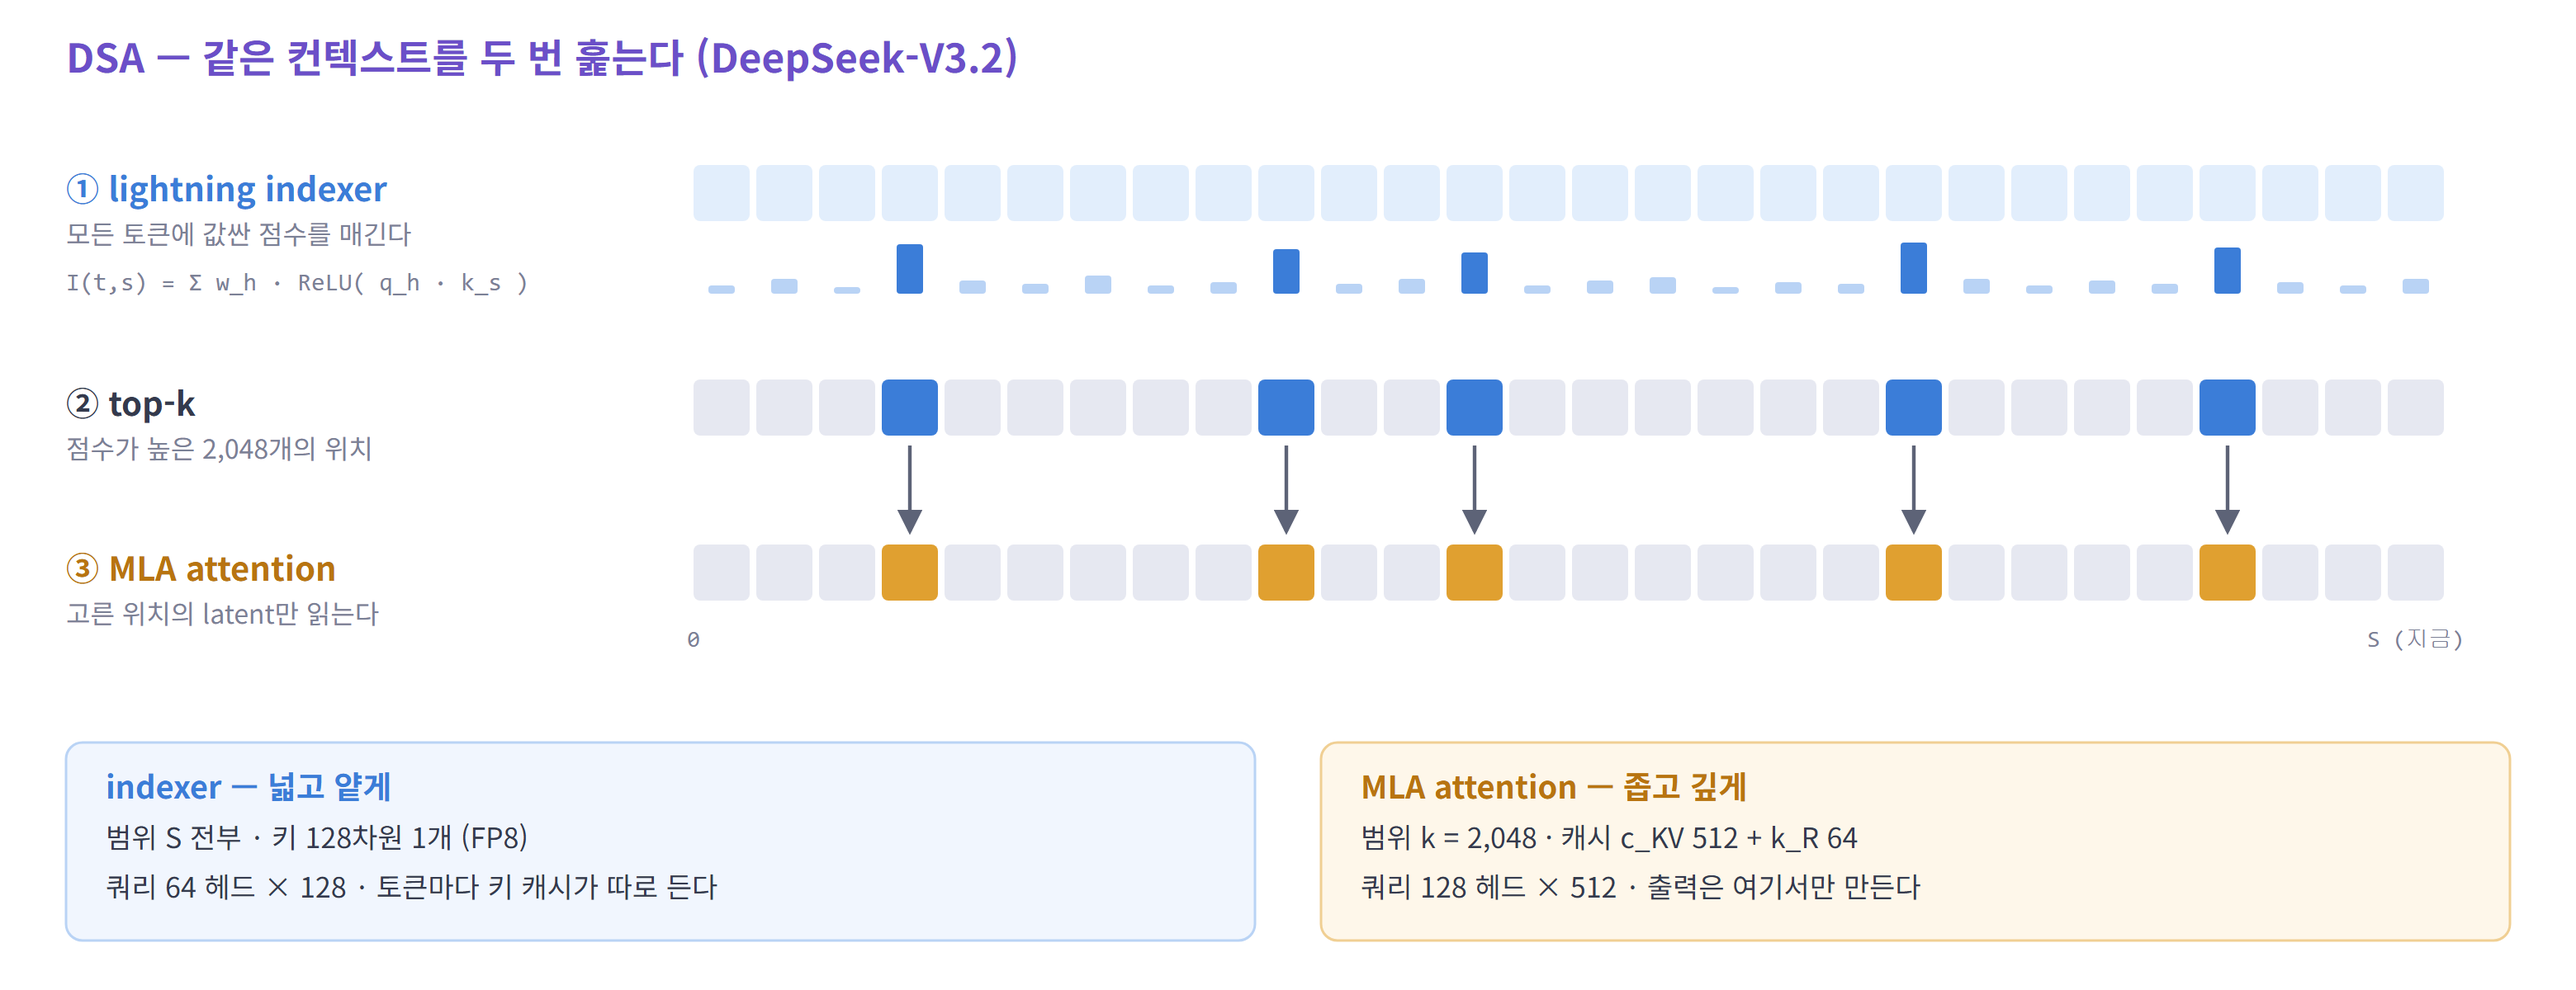
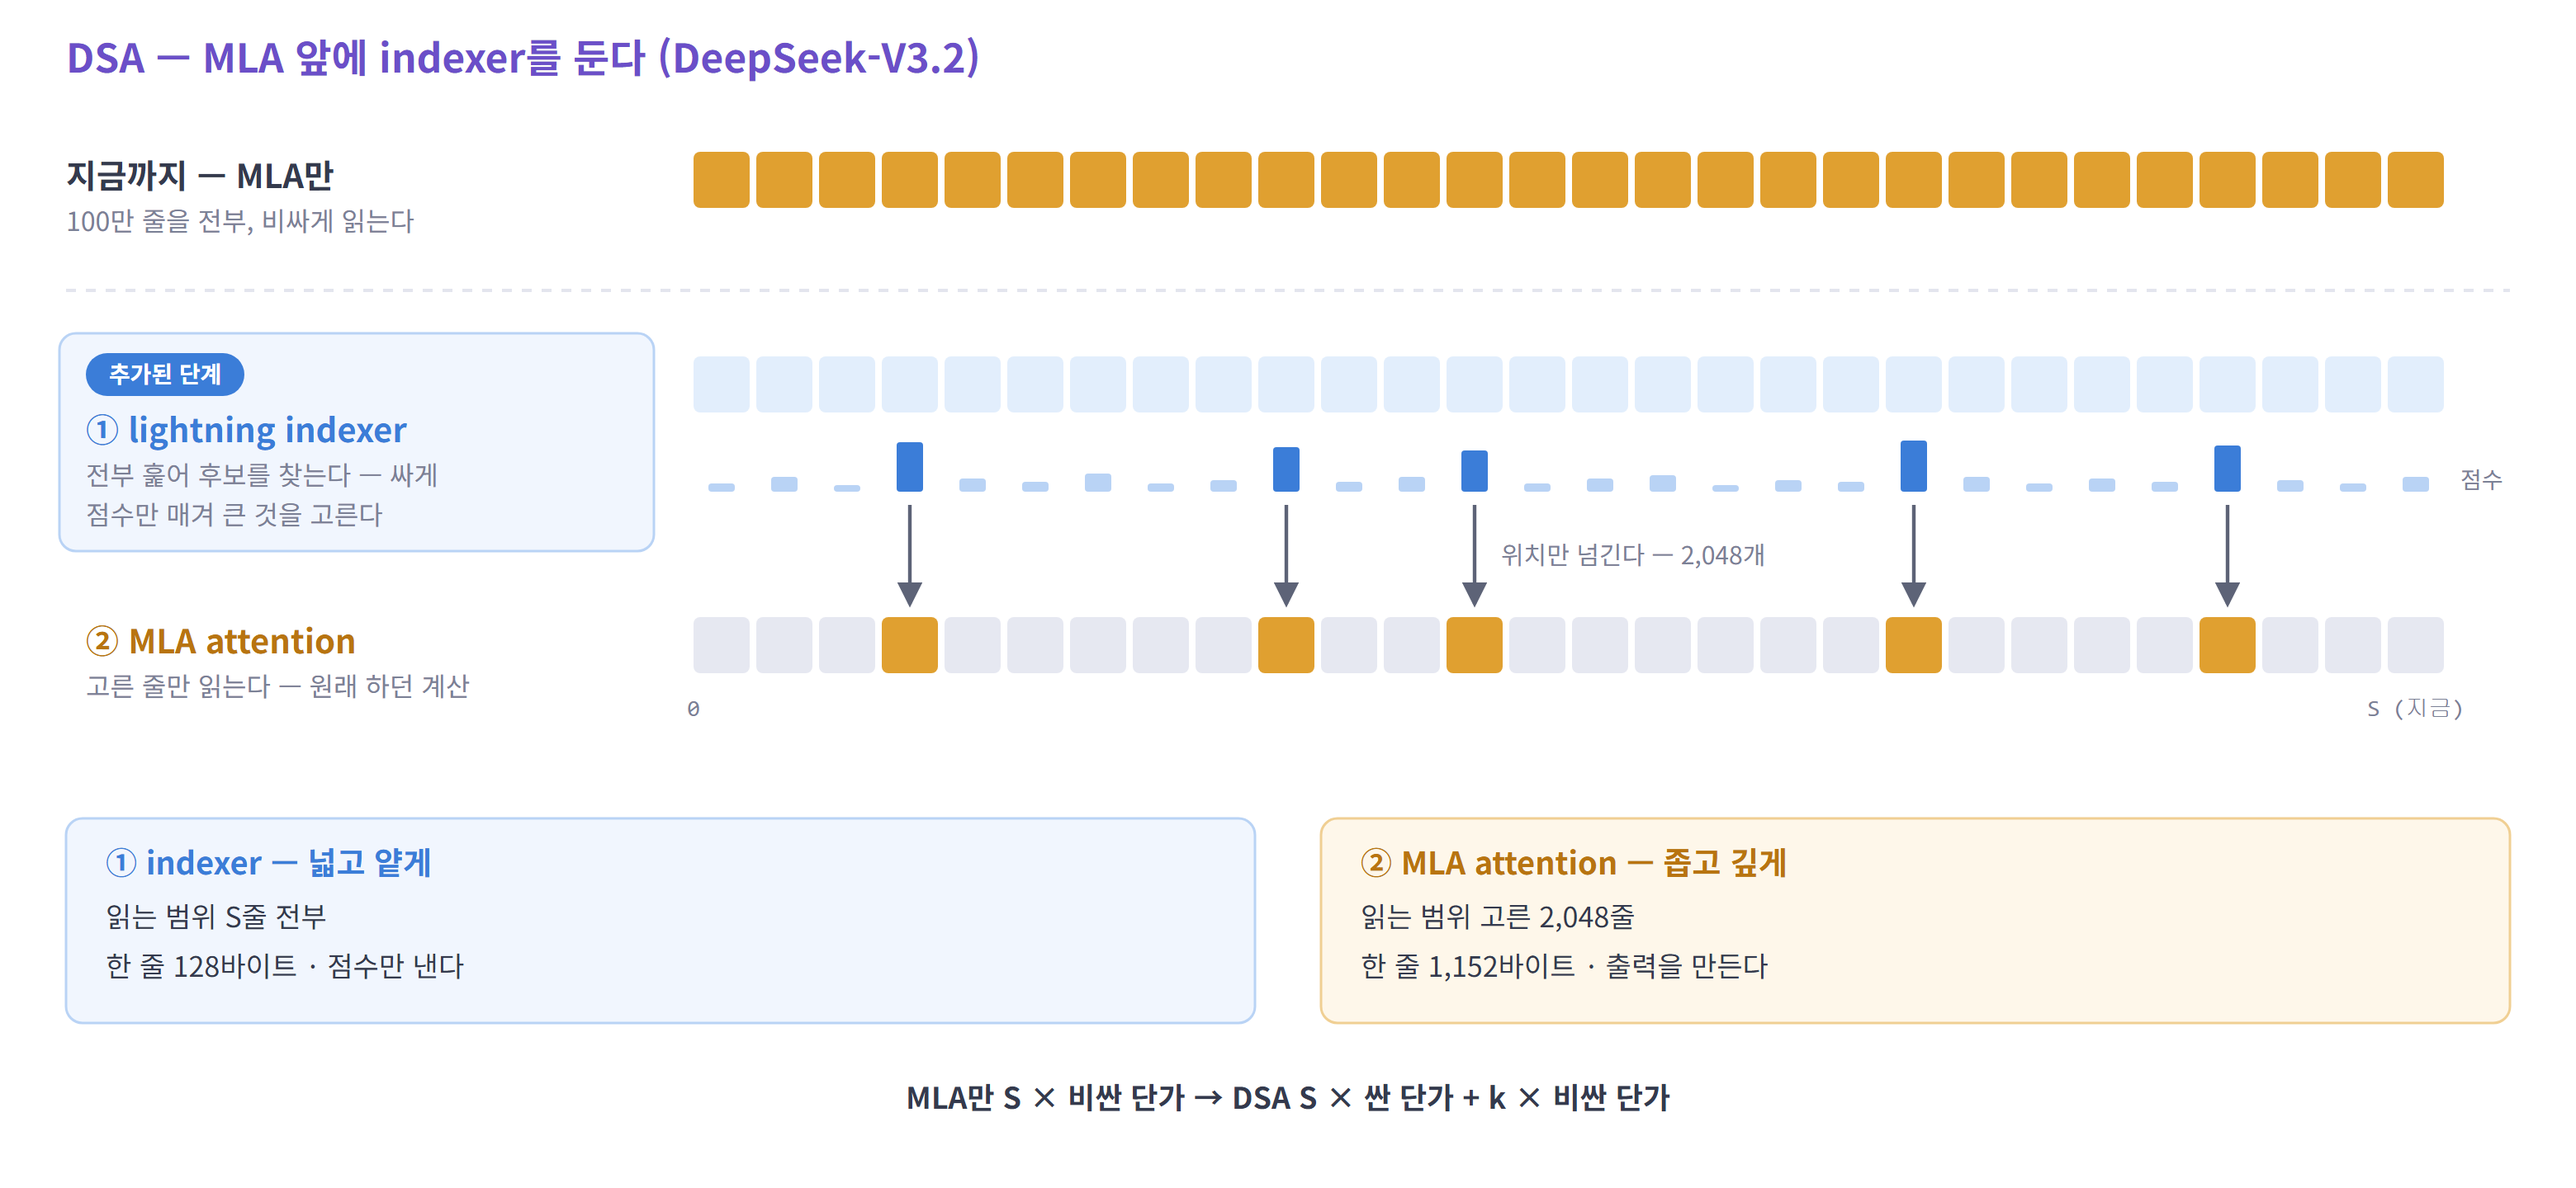
docs: rework the DSA section of the attention seminar
Present DSA as MLA with an indexer stage added in front: the indexer
scans every row cheaply and passes on 2,048 positions, and MLA then
computes only on those rows. Redraw the DSA figure around that flow and
fold the second diagram into the indexer screen.

Add a screen listing the indexer's operations with shapes and a small
score example, state that its goal is recall rather than exact ranking,
and keep the GPU view of top-k and gather short. Move the byte counts
into a fold and remove repeated points.

diff --git a/seminar/figures/make_figures.py b/seminar/figures/make_figures.py
@@ -301,45 +301,59 @@ def fig_patterns():
 
 # ---------------------------------------------------------------- 6. DSA
 def fig_dsa():
-    f = Fig("06-dsa", 1560, 600)
-    f.title(40, 44, "DSA — 같은 컨텍스트를 두 번 훑는다 (DeepSeek-V3.2)")
-    n = 28
-    sel = {3, 9, 12, 19, 24}
-    x0, cw = 420, 34
-    # ① indexer
-    y = 100
-    f.text(40, y + 22, "① lightning indexer", 20, "start", 700, "#3b7dd8")
-    f.text(40, y + 48, "모든 토큰에 값싼 점수를 매긴다", 16, "start", color=MUTED)
-    f.cells(x0, y, [KINDS["i"][0]] * n, cw, 34, 4, 4)
+    f = Fig("06-dsa", 1560, 720)
+    f.title(40, 44, "DSA — MLA 앞에 indexer를 둔다 (DeepSeek-V3.2)")
+    BLUE, AMB = "#3b7dd8", "#b87410"
+    n, x0, cw = 28, 420, 34
+    sel = [3, 9, 12, 19, 24]
+
+    def cx(i):
+        return x0 + i * (cw + 4) + cw / 2
+
+    # ---- 지금까지 : MLA만
+    y = 92
+    f.text(40, y + 22, "지금까지 — MLA만", 20, "start", 700)
+    f.text(40, y + 48, "100만 줄을 전부, 비싸게 읽는다", 16, "start", color=MUTED)
+    f.cells(x0, y, [SOLID["c"]] * n, cw, 34, 4, 4)
+    f.line(40, 176, 1520, 176, "#e3e5ee", 2, "6 6")
+
+    # ---- ① 후보 찾기
+    y1 = 216
+    f.rect(36, y1 - 14, 360, 132, "#f1f6fe", "#b9d3f5", 10, 1.5)
+    f.rect(52, y1 - 2, 96, 26, BLUE, "none", 13)
+    f.text(100, y1 + 16, "추가된 단계", 14, weight=700, color="#ffffff")
+    f.text(52, y1 + 52, "① lightning indexer", 20, "start", 700, BLUE)
+    f.text(52, y1 + 78, "전부 훑어 후보를 찾는다 — 싸게", 16, "start", color=MUTED)
+    f.text(52, y1 + 102, "점수만 매겨 큰 것을 고른다", 16, "start", color=MUTED)
+    f.cells(x0, y1, [KINDS["i"][0]] * n, cw, 34, 4, 4)
     heights = [5, 9, 4, 30, 8, 6, 11, 5, 7, 27, 6, 9, 25, 5, 8, 10, 4, 7, 6, 31, 9, 5, 8, 6, 28, 7, 5, 9]
     for i, h in enumerate(heights):
-        f.rect(x0 + i * (cw + 4) + 9, y + 78 - h, 16, h, "#3b7dd8" if i in sel else "#b9d3f5", "none", 2)
-    f.text(40, y + 76, "I(t,s) = Σ w_h · ReLU( q_h · k_s )", 15, "start", color=MUTED, mono=True)
-    # ② top-k
-    y2 = 230
-    f.text(40, y2 + 22, "② top-k", 20, "start", 700)
-    f.text(40, y2 + 48, "점수가 높은 2,048개의 위치", 16, "start", color=MUTED)
-    f.cells(x0, y2, [SOLID["i"] if i in sel else OFF for i in range(n)], cw, 34, 4, 4)
+        f.rect(cx(i) - 8, y1 + 82 - h, 16, h, BLUE if i in sel else "#b9d3f5", "none", 2)
+    f.text(x0 + n * (cw + 4) + 6, y1 + 80, "점수", 14, "start", color=MUTED)
     for i in sel:
-        f.arrow(x0 + i * (cw + 4) + 17, y2 + 40, x0 + i * (cw + 4) + 17, y2 + 92)
-    # ③ MLA
-    y3 = 330
-    f.text(40, y3 + 22, "③ MLA attention", 20, "start", 700, "#b87410")
-    f.text(40, y3 + 48, "고른 위치의 latent만 읽는다", 16, "start", color=MUTED)
-    f.cells(x0, y3, [SOLID["c"] if i in sel else OFF for i in range(n)], cw, 34, 4, 4)
-    f.text(x0, y3 + 62, "0", 14, color=MUTED, mono=True)
-    f.text(x0 + (n - 1) * (cw + 4) + 17, y3 + 62, "S (지금)", 14, color=MUTED, mono=True)
+        f.arrow(cx(i), y1 + 90, cx(i), y1 + 150)
+    f.text(cx(sel[2]) + 16, y1 + 126, "위치만 넘긴다 — 2,048개", 15, "start", color=MUTED)
 
-    # 비교 표
-    ty = 450
-    f.rect(40, ty, 720, 120, "#f1f6fe", "#b9d3f5", 10, 1.5)
-    f.text(64, ty + 34, "indexer — 넓고 얕게", 19, "start", 700, "#3b7dd8")
-    f.text(64, ty + 64, "범위  S 전부   ·   키  128차원 1개 (FP8)", 17, "start")
-    f.text(64, ty + 94, "쿼리  64 헤드 × 128   ·   토큰마다 키 캐시가 따로 든다", 17, "start")
-    f.rect(800, ty, 720, 120, "#fef7ea", "#f0cf93", 10, 1.5)
-    f.text(824, ty + 34, "MLA attention — 좁고 깊게", 19, "start", 700, "#b87410")
-    f.text(824, ty + 64, "범위  k = 2,048   ·   캐시  c_KV 512 + k_R 64", 17, "start")
-    f.text(824, ty + 94, "쿼리  128 헤드 × 512   ·   출력은 여기서만 만든다", 17, "start")
+    # ---- ② MLA attention
+    y2 = y1 + 158
+    f.text(52, y2 + 22, "② MLA attention", 20, "start", 700, AMB)
+    f.text(52, y2 + 48, "고른 줄만 읽는다 — 원래 하던 계산", 16, "start", color=MUTED)
+    f.cells(x0, y2, [SOLID["c"] if i in sel else OFF for i in range(n)], cw, 34, 4, 4)
+    f.text(x0, y2 + 60, "0", 14, color=MUTED, mono=True)
+    f.text(cx(n - 1), y2 + 60, "S (지금)", 14, color=MUTED, mono=True)
+
+    # ---- 두 단계 비교
+    ty = 496
+    f.rect(40, ty, 720, 124, "#f1f6fe", "#b9d3f5", 10, 1.5)
+    f.text(64, ty + 34, "① indexer — 넓고 얕게", 19, "start", 700, BLUE)
+    f.text(64, ty + 66, "읽는 범위   S줄 전부", 17, "start")
+    f.text(64, ty + 96, "한 줄        128바이트  ·  점수만 낸다", 17, "start")
+    f.rect(800, ty, 720, 124, "#fef7ea", "#f0cf93", 10, 1.5)
+    f.text(824, ty + 34, "② MLA attention — 좁고 깊게", 19, "start", 700, AMB)
+    f.text(824, ty + 66, "읽는 범위   고른 2,048줄", 17, "start")
+    f.text(824, ty + 96, "한 줄        1,152바이트  ·  출력을 만든다", 17, "start")
+    f.text(780, 672, "MLA만   S × 비싼 단가          →          DSA   S × 싼 단가  +  k × 비싼 단가", 18, weight=700,
+           mono=False)
     return f
 
 
